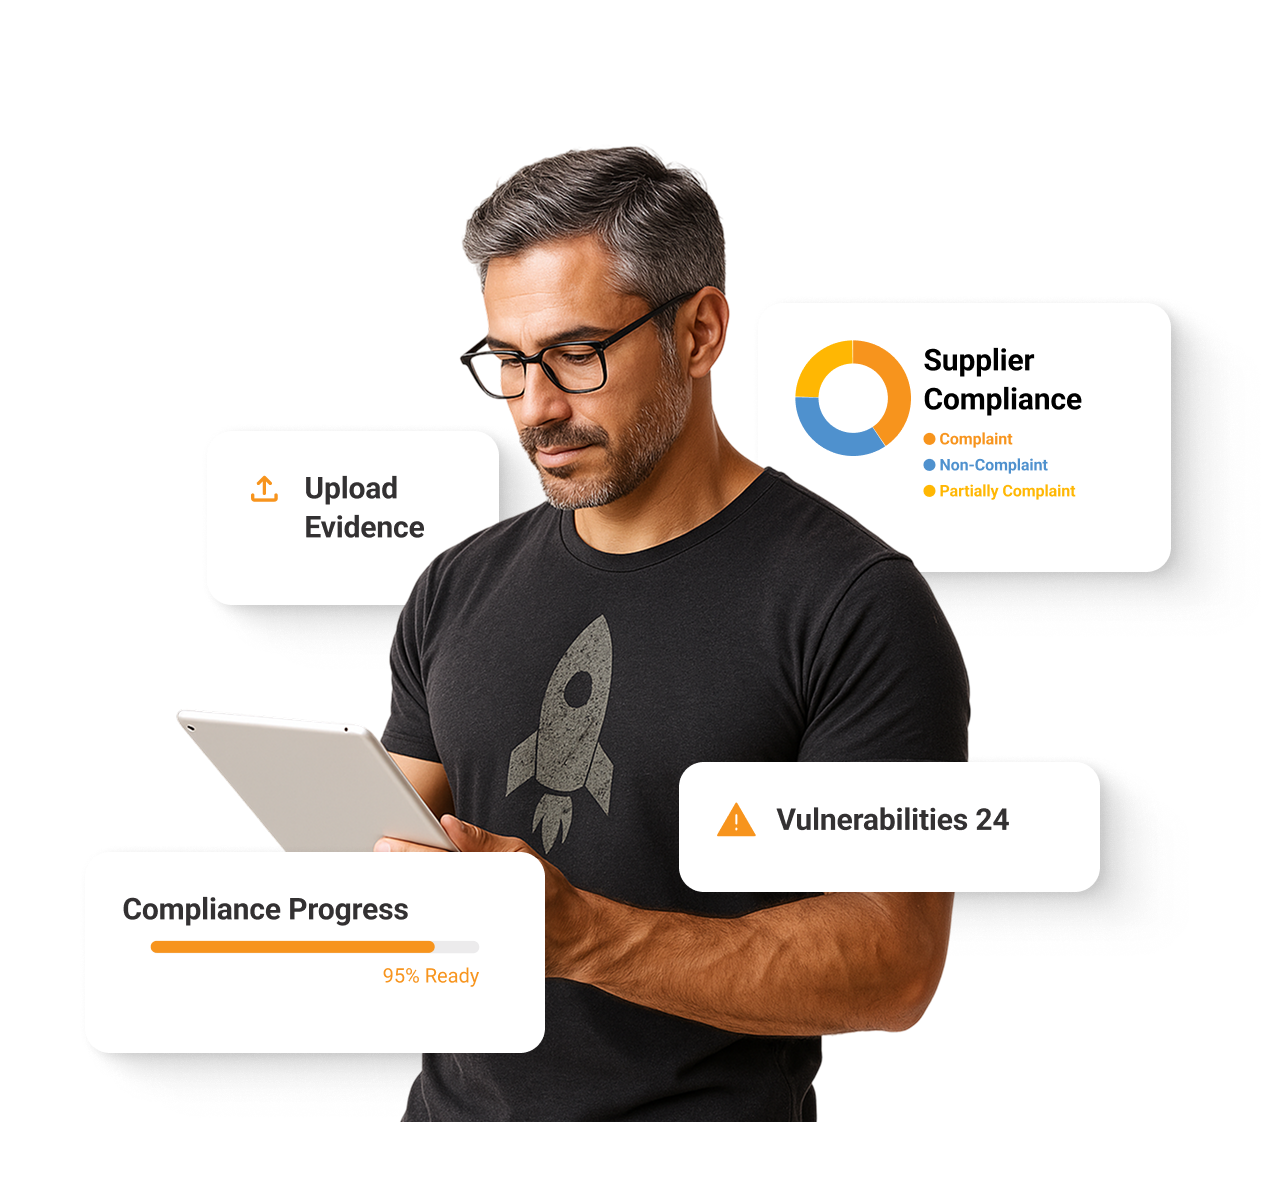
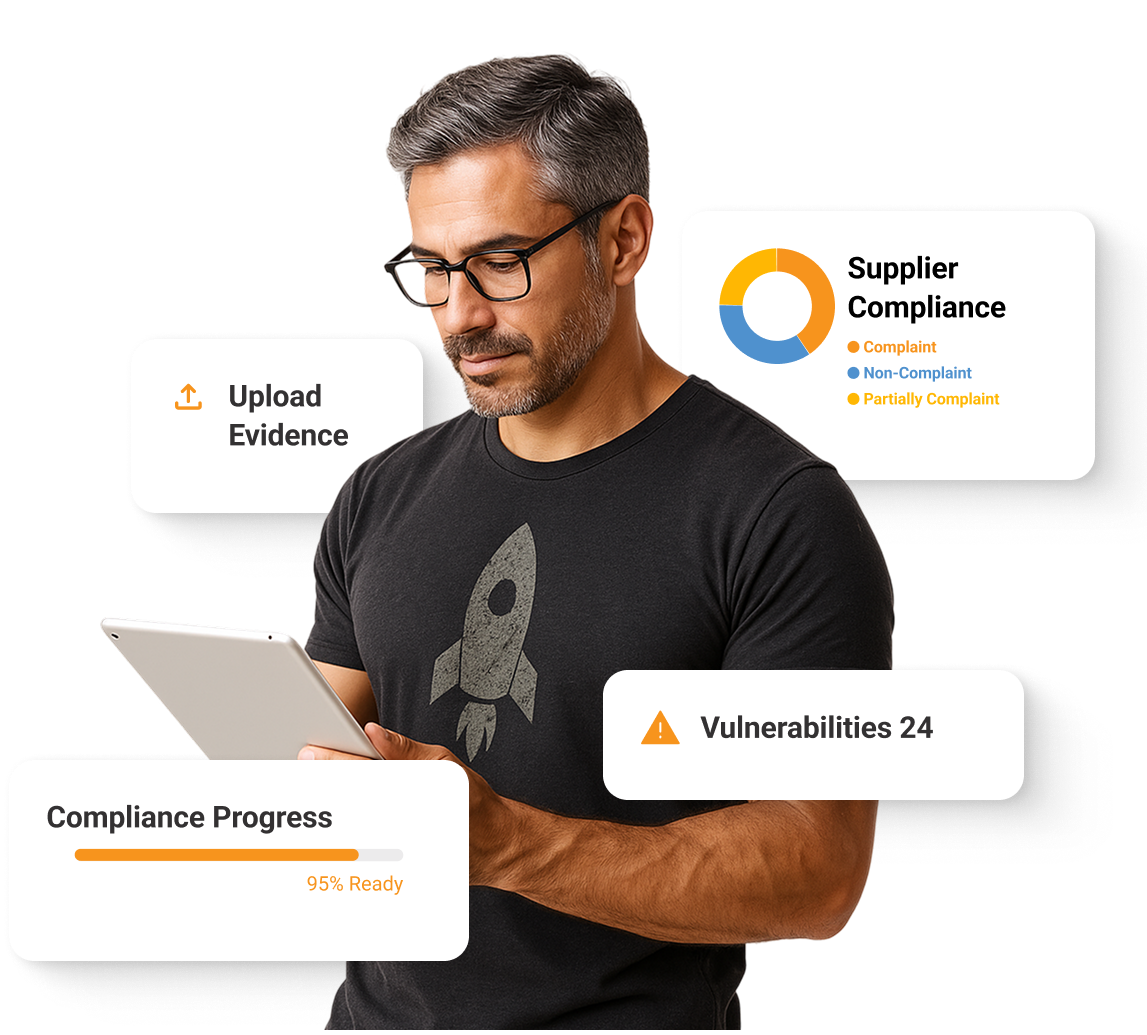
Hero component layout for improved responsiveness and visual consistency

diff --git a/components/(Home)/Hero.tsx b/components/(Home)/Hero.tsx
@@ -23,9 +23,9 @@ export default function MainHero() {
     }, []);
 
     return (
-        <section>
+        <section className="w-full">
             <div
-                className="w-full min-h-239.5 relative overflow-hidden flex items-center px-6 lg:px-0 pt-24 lg:pt-16"
+                className="w-full overflow-hidden flex items-center px-6 lg:px-12 pt-24 lg:pt-34"
                 style={{
                     backgroundImage: `linear-gradient(180deg, rgba(241, 241, 241, 0.56) 51.58%, #F1F1F1 100%), url(${HeroBgImg.src})`,
                     backgroundSize: "cover",
@@ -33,14 +33,14 @@ export default function MainHero() {
                     backgroundRepeat: "no-repeat"
                 }}
             >
-                <div className="max-w-[1620px] mx-auto w-full grid grid-cols-1 lg:grid-cols-12 gap-10 items-center relative z-10 ">
 
-                    {/* Left content */}
-                    <div className="lg:col-span-5 flex flex-col items-start justify-center gap-0.5 max-w-220 pt-10">
+                <div className="flex flex-col lg:flex-row items-center justify-center w-full max-w-[1620px] mx-auto gap-0">
+
+                    <div className="flex flex-col items-start justify-center gap-0.5 pt-10 lg:pt-28 flex-1 ">
 
                         {/* Top badges */}
                         <div className="flex items-center gap-2.5 pb-2">
-                            <span className="w-24.25 h-8 flex items-center justify-center rounded-[25px] bg-[#4F91CE] text-[#ECEBEC] font-Inter font-medium text-[18px] opacity-70 px-3.75 py-1.25 ">
+                            <span className="w-24.25 h-8 flex items-center justify-center rounded-[25px] bg-[#4F91CE] text-[#ECEBEC] font-Inter font-medium text-[18px] opacity-70 px-3.75 py-1.25">
                                 Consult
                             </span>
                             <span className="w-28.75 h-8 flex items-center justify-center rounded-[25px] bg-[#F7941D] text-[#ECEBEC] font-Inter font-medium text-[18px] opacity-70 px-3.75 py-1.25">
@@ -51,15 +51,16 @@ export default function MainHero() {
                             </span>
                         </div>
 
-                        {/* Heading with rotating word */}
-                        <h1 className="font-Inter font-semibold text-[36px] sm:text-[48px] lg:text-[64px] leading-[115%] tracking-[-1%] text-[#1E374F] pb-12">
+                        {/* Heading */}
+                        <h1 className="font-Inter font-semibold text-[36px] sm:text-[48px] lg:text-[64px] leading-[115%] tracking-[-1%] text-[#1E374F] pb-12 w-full">
                             <span className="inline-flex items-baseline gap-3">
                                 Get
-                                <span className="relative inline-block h-9.5 md:h-16 overflow-hidden align-bottom min-w-[30ch]">
+
+                                <span className="relative inline-block h-9.5 md:h-16 overflow-hidden align-bottom min-w-[10ch]">
                                     {rotatingWords.map((word, i) => (
                                         <span
                                             key={word}
-                                            className={`absolute left-2 top-1 whitespace-nowrap transition-all duration-500 ease-in-out ${i === activeIndex
+                                            className={`absolute left-0 top-1 whitespace-nowrap transition-all duration-500 ease-in-out ${i === activeIndex
                                                 ? "translate-y-0 opacity-100"
                                                 : "translate-y-full opacity-0"
                                                 }`}
@@ -74,11 +75,11 @@ export default function MainHero() {
                         </h1>
 
                         {/* Paragraph */}
-                        <p className="font-Inter font-medium text-[16px] lg:text-[20px] leading-[125%] text-[#1E374F] max-w-[760px] pb-12">
+                        <p className="font-Inter font-medium text-[16px] lg:text-[20px] leading-[125%] text-[#1E374F] max-w-190 pb-11">
                             The Ignyte Assurance Platform offers compliance-sensitive teams, such as government contractors, cloud service providers, and healthcare organizations with start-to-finish support as they align with the frameworks they need – all in one platform, backed by <span className="font-bold">personalized consulting and audit services.</span>
                         </p>
 
-                        <div className="w-40 h-13 pb-32">
+                        <div className="ml-1 mt-0.70 pb-18">
                             <PrimaryButton href="/get-started" text="Get Started" />
                         </div>
 
@@ -99,30 +100,24 @@ export default function MainHero() {
                         </div>
                     </div>
 
-                    {/* Right image */}
-                    <div className="lg:col-span-7 w-full h-100 sm:h-125 md:h-150 lg:h-220.5 flex items-center justify-center relative">
-                        <div className="relative w-full max-w-983.5 h-full flex items-center justify-center">
-                            <div className="relative w-full h-full scale-105 sm:scale-100 transition-transform duration-300">
-                                <Image
-                                    src={ManWithTablet}
-                                    alt="Ignyte Compliance Expert with Dashboard Showcase"
-                                    fill
-                                    priority
-                                   
-                                    className="object-contain max-w-900 max-h-800"
-                                />
-                            </div>
-                           
-                        </div>
+                    <div className="relative w-full max-w-213.5 aspect-854/754 flex-1  -ml-8">
+                        <Image
+                            src={ManWithTablet}
+                            alt="Ignyte Compliance Expert with Dashboard Showcase"
+                            fill
+                            priority
+                            className="object-contain w-213.5 h-188.5"
+                        />
+                        <div
+                            className="absolute bottom-[10%] left-0 right-0 h-[20%] pointer-events-none z-10"
+                            style={{
+                                background: "linear-gradient(180deg, rgba(241, 240, 239, 0) 36.29%, #F1F0EF 97.97%)"
+
+                            }}
+                        />
                     </div>
                 </div>
             </div>
-             <div
-                                className="absolute bottom-[12%] sm:bottom-[15%] md:bottom-[18%] lg:bottom-[18%] left-0 right-0 h-[20%] pointer-events-none z-10"
-                                style={{
-                                    background: "linear-gradient(180deg, rgba(241, 241, 241, 0) 0%, rgba(241, 241, 241, 0.3) 50%, #F1F1F1 100%)"
-                                }}
-                            />
         </section>
     );
 }